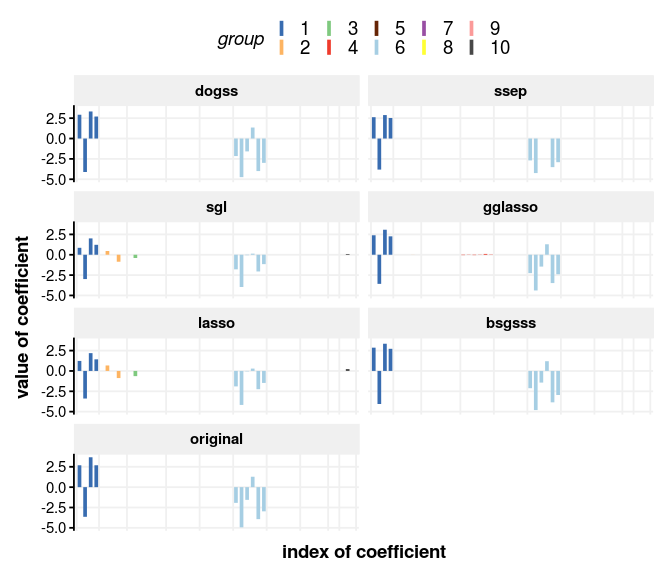
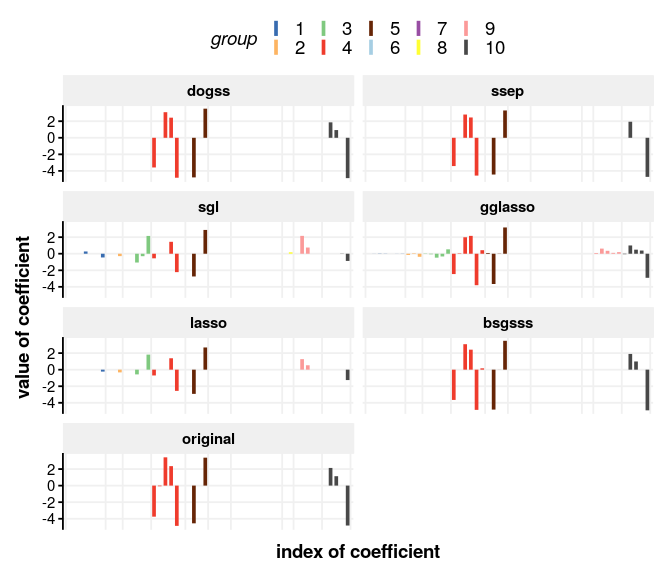
needle plot almost complete

diff --git a/notebooks/signal_recovery/signal_recovery.md b/notebooks/signal_recovery/signal_recovery.md
@@ -35,7 +35,7 @@ Furthermore we need to load three R files with additional code:
 
 ``` r
 source("../auxiliary_rfunctions/my_BSGSSS.R") # MBSGS package has a problem with groups of size 1
-source("../auxiliary_rfunctions/my_cvSGL.R") # SGL package does a weird cross validation, this is cv similar to gglasso/glmnet package
+source("../auxiliary_rfunctions/my_cvSGL.R") # proper cross validation for SGL package
 
 source("../auxiliary_rfunctions/my_theme.R") # functions to adjust ggplots
 ```
@@ -45,14 +45,33 @@ Simulation
 
 We show how to simulate data for signal recovery. This data will be used in the next section.
 
-First we set the parameters for simulation. We will also set a seed to produce exactly the needle plot like in the publication:
+First we set the parameters for simulation:
 
 ``` r
-m <- 30; p <- 50; nG <- 10; k <- 10; sigma0 <- 1
-set.seed(2670)
+m <- 30; p <- 50; nG <- 10; nzG <- 3; k <- 10; sigma0 <- 1
 ```
 
 Here **m** is the number of observations, **p** is the number of features, **nG** is the number of groups, **k** is the number of non-zero coefficients and **sigma0** refers to the noise we will add in the end.
+
+``` r
+sim_signalrecovery <- function(m, p, nG, nzG, k, sigma0) {
+  beta <- rep(0, p)
+  G <- sort(sample(1:nG, p, replace=TRUE))
+  while (sum(!(1:nG %in% G)) > 0) { # this makes sure we have exactly nG groups
+    G <- sort(sample(1:nG, p, replace=TRUE))
+  }
+  
+  X <- matrix(rnorm(m*p, 0, 1), nrow=m, ncol=p)
+  nzgroups <- sample(1:nG, nzG) # we sample the non-zero groups
+  whichbeta <- which(G%in%nzgroups) # get the indices of the non-zero groups
+  beta[sample(whichbeta, min(length(whichbeta), k))] <- runif(min(length(whichbeta), k), -5, 5) # assign random values to k indices in the non-zero groups
+  Y <- as.vector(X %*% beta) + rnorm(m, 0, sigma0) # final linear model
+  sim <- list(Y=Y, X=X, beta=beta, G=G)
+  return(sim)
+}
+```
+
+It might happen that we have less than **k** non-zero coefficients if the **nzG** groups have together less than **k** elements.
 
 Needle plot
 -----------
@@ -60,25 +79,12 @@ Needle plot
 contents (F2)
 
 ``` r
+sim <- sim_signalrecovery(m, p, nG, nzG, k, sigma0)
+X <- sim$X; Y <- sim$Y; beta <- sim$beta; G <- sim$G
+nngroups <- sapply(1:nG, function(g) sum(G==g)) # we will need the group sizes for BSGSSS
+
 results <- list()
-betas <- rep(0, p)
-
-G <- sort(sample(1:nG, p, replace=TRUE))
-
-while (sum(!(1:nG %in% G)) > 0) {
-  G <- sort(sample(1:nG, p, replace=TRUE))
-}
-
-groups <- unique(G)
-ngroups <- length(groups)
-nngroups <- sapply(groups, function(g) sum(G==g))
-
-X <- matrix(rnorm(m*p, 0, 1), nrow=m, ncol=p)
-threegroups <- sample(1:ngroups, 3)
-whichbeta <- which(G%in%threegroups)
-betas[sample(whichbeta, min(length(whichbeta), k))] <- runif(min(length(whichbeta), k), -5, 5)
-Y <- as.vector(X %*% betas) + rnorm(m, 0, sigma0)
-
+  
 results$dogss <- cv_dogss(X,Y,G)
 results$ssep <- cv_dogss(X,Y,G=NULL) 
 results$lasso <- cv.glmnet(x=X, y=Y, intercept=FALSE, standardize=FALSE)
@@ -99,7 +105,7 @@ mydata_signal <- data.frame(
     results$gglasso$gglasso.fit$beta[, index_gglasso], 
     results$lasso$glmnet.fit$beta[, index_lasso], 
     results$bsgsss$pos_median,
-    betas
+    beta
   ),
   G=as.factor(rep(G,times=7)),
   method=factor(rep(c("dogss", "ssep", "sgl" , "gglasso", "lasso", "bsgsss", "original"), each=p), levels=c("dogss", "ssep", "sgl" , "gglasso", "lasso", "bsgsss", "original"), ordered=TRUE)
@@ -109,7 +115,7 @@ ggplot(mydata_signal, aes(colour=G, x=index, ymax=BETAS, ymin=0)) +
   facet_wrap(~ method, nrow=4, ncol=2) +
   geom_linerange(size=1.3)  +
   scale_colour_manual(values=rep(Ed_palette,length.out=p)) +
-  scale_x_continuous(breaks = c(0.5, cumsum(nngroups[1:(ngroups)])+0.5), expand=c(0,1)) +
+  scale_x_continuous(breaks = c(0.5, cumsum(nngroups[1:(nG)])+0.5), expand=c(0,1)) +
   labs(colour = "group", x="index of coefficient", y="value of coefficient") +
   theme_Ed() + theme(plot.title = element_blank(), legend.position = "top", axis.text.x = element_blank(), axis.ticks.x = element_blank(), axis.line.x =element_blank())
 ```
